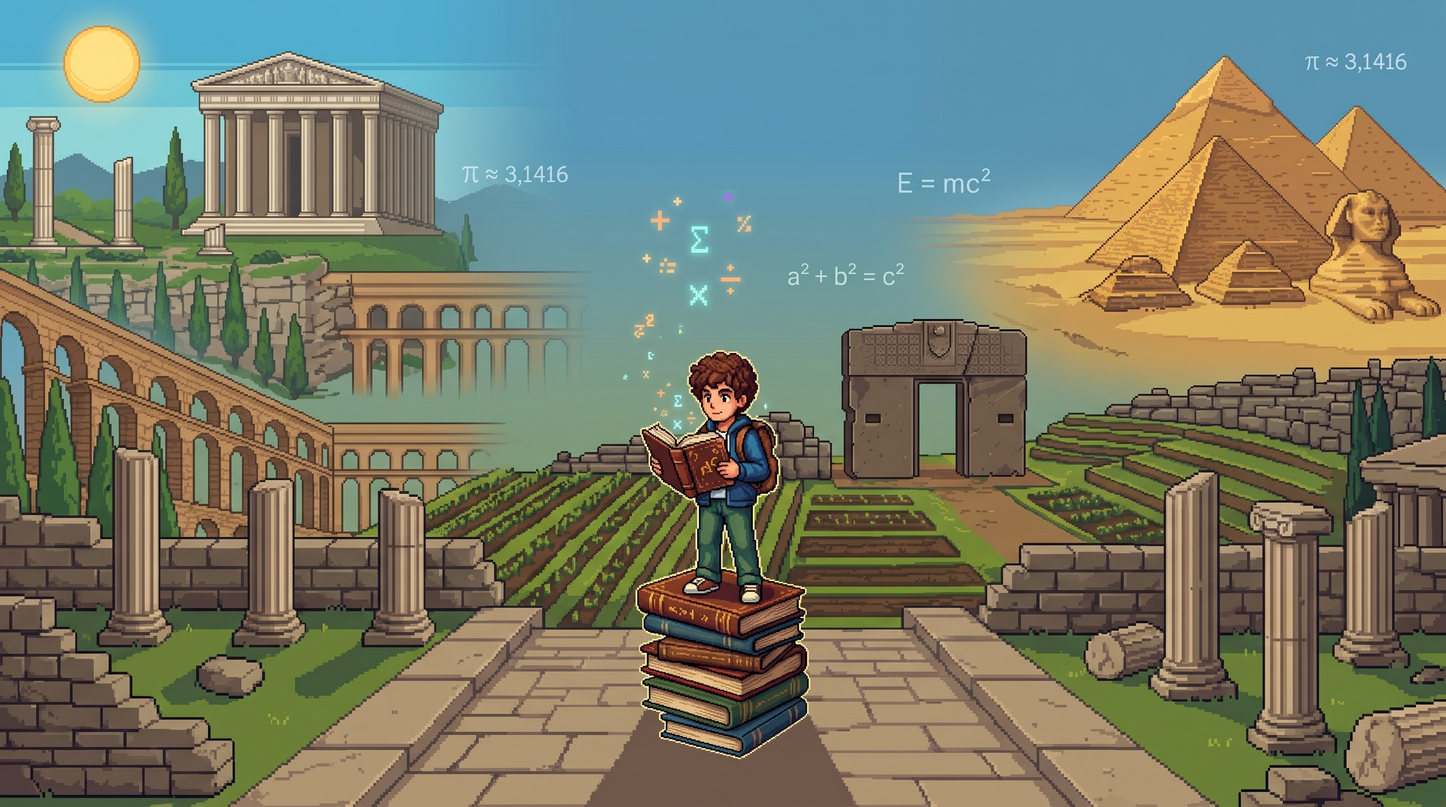
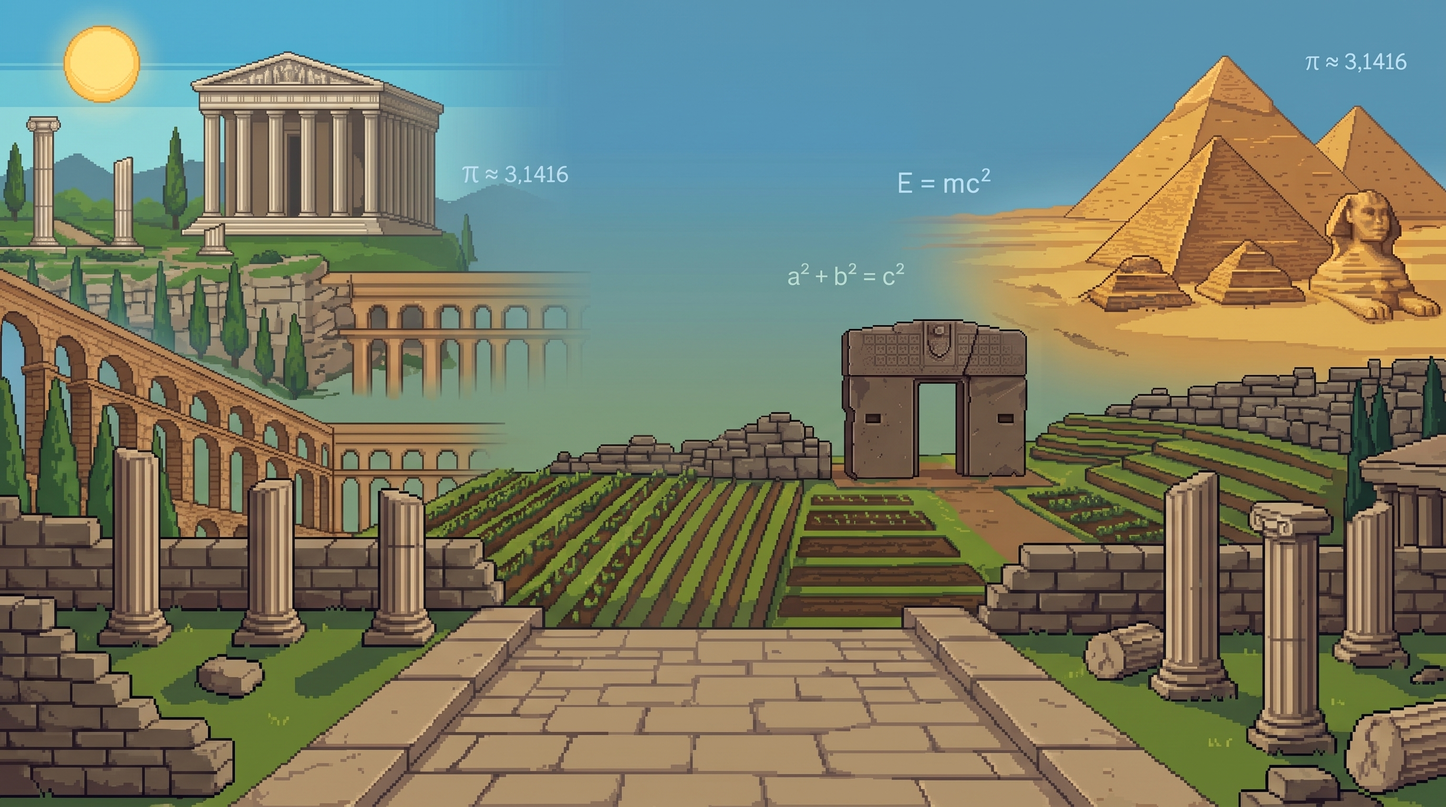
Point menu background at background_menu.jpg with cover-fit scaling

diff --git a/Assets/Editor/MathCoreMenuBuilder.cs b/Assets/Editor/MathCoreMenuBuilder.cs
@@ -13,7 +13,7 @@ using static MathCoreUIBuilderUtils;
 public static class MathCoreMenuBuilder
 {
     private const string ScenePath = "Assets/Scenes/MainMenu.unity";
-    private const string BackgroundSpritePath = "Assets/Art/UI/MenuBackground.jpg";
+    private const string BackgroundSpritePath = "Assets/Art/UI/background_menu.jpg";
 
     [MenuItem("Math Core/Construir Pantalla de Menu")]
     public static void BuildMainMenuScene()
@@ -105,15 +105,15 @@ public static class MathCoreMenuBuilder
         Transform panel = panelRect.transform;
 
         Image background = CreateImage("Background", panel, Color.white);
-        Stretch(background.rectTransform);
-        background.preserveAspect = false;
         Sprite backgroundSprite = AssetDatabase.LoadAssetAtPath<Sprite>(BackgroundSpritePath);
         if (backgroundSprite != null)
         {
             background.sprite = backgroundSprite;
+            CoverFit(background.rectTransform, backgroundSprite, 1080f, 1920f);
         }
         else
         {
+            Stretch(background.rectTransform);
             background.color = NearBlackBackground;
             Debug.LogWarning("No se encontro " + BackgroundSpritePath + "; se usa un fondo solido en su lugar.");
         }

diff --git a/Assets/Editor/MathCoreUIBuilderUtils.cs b/Assets/Editor/MathCoreUIBuilderUtils.cs
@@ -254,6 +254,21 @@ public static class MathCoreUIBuilderUtils
         return inputField;
     }
 
+    // Escala una imagen para cubrir por completo un area de canvasWidth x canvasHeight sin deformarse,
+    // recortando el sobrante centrado (equivalente a CSS "background-size: cover").
+    public static void CoverFit(RectTransform rect, Sprite sprite, float canvasWidth, float canvasHeight)
+    {
+        float imageWidth = sprite.rect.width;
+        float imageHeight = sprite.rect.height;
+        float scale = Mathf.Max(canvasWidth / imageWidth, canvasHeight / imageHeight);
+
+        rect.anchorMin = new Vector2(0.5f, 0.5f);
+        rect.anchorMax = new Vector2(0.5f, 0.5f);
+        rect.pivot = new Vector2(0.5f, 0.5f);
+        rect.anchoredPosition = Vector2.zero;
+        rect.sizeDelta = new Vector2(imageWidth * scale, imageHeight * scale);
+    }
+
     public static void Stretch(RectTransform rect)
     {
         rect.anchorMin = Vector2.zero;
